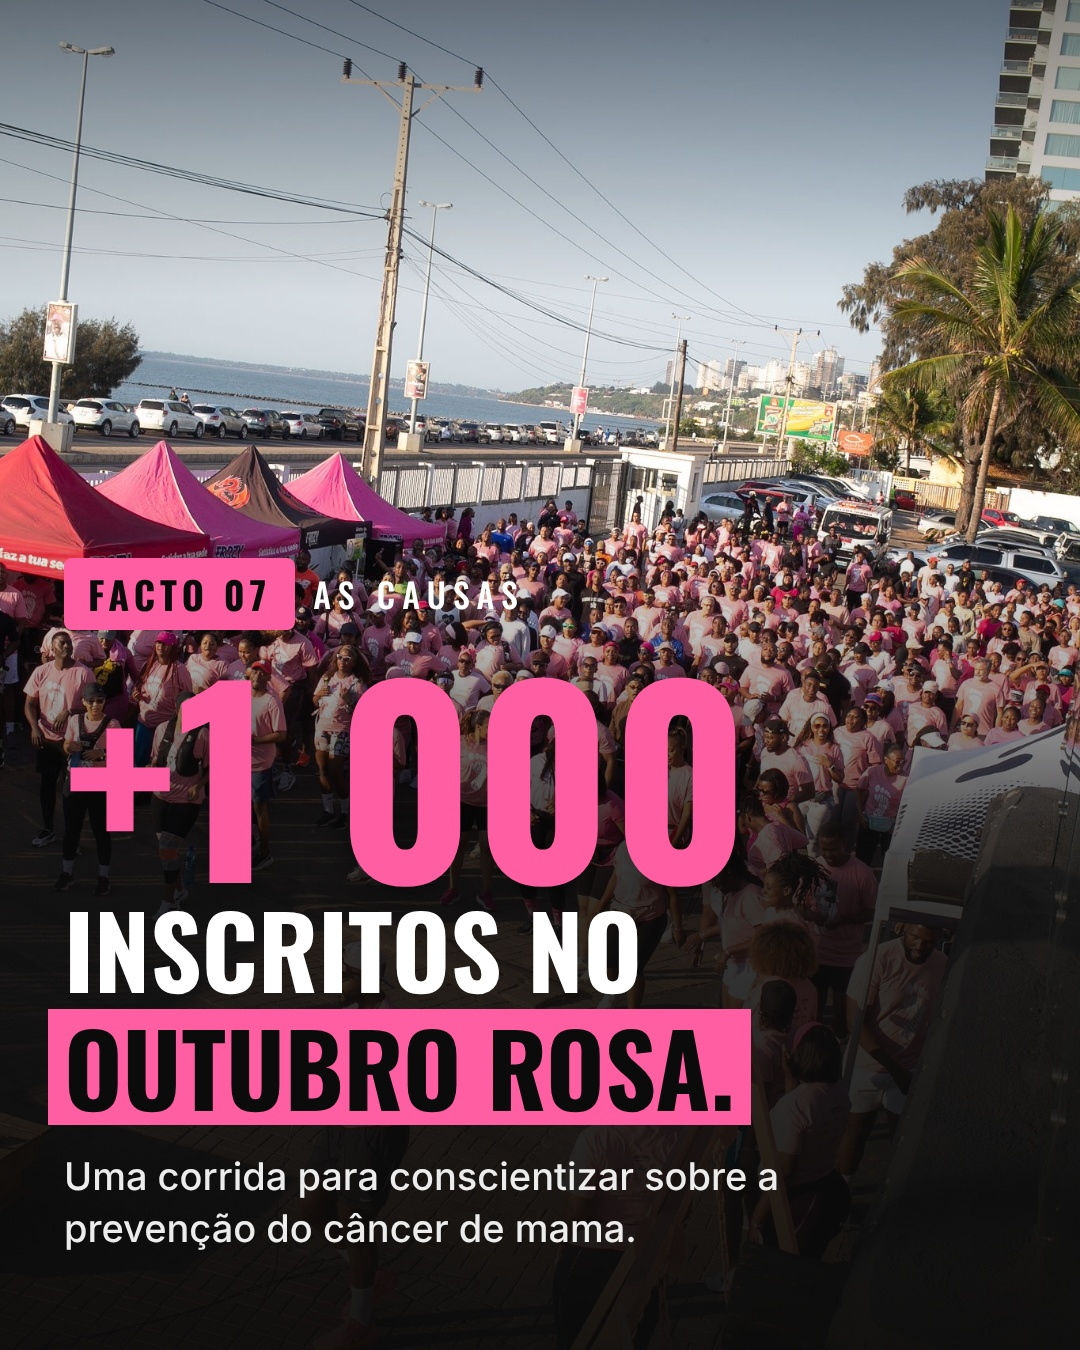
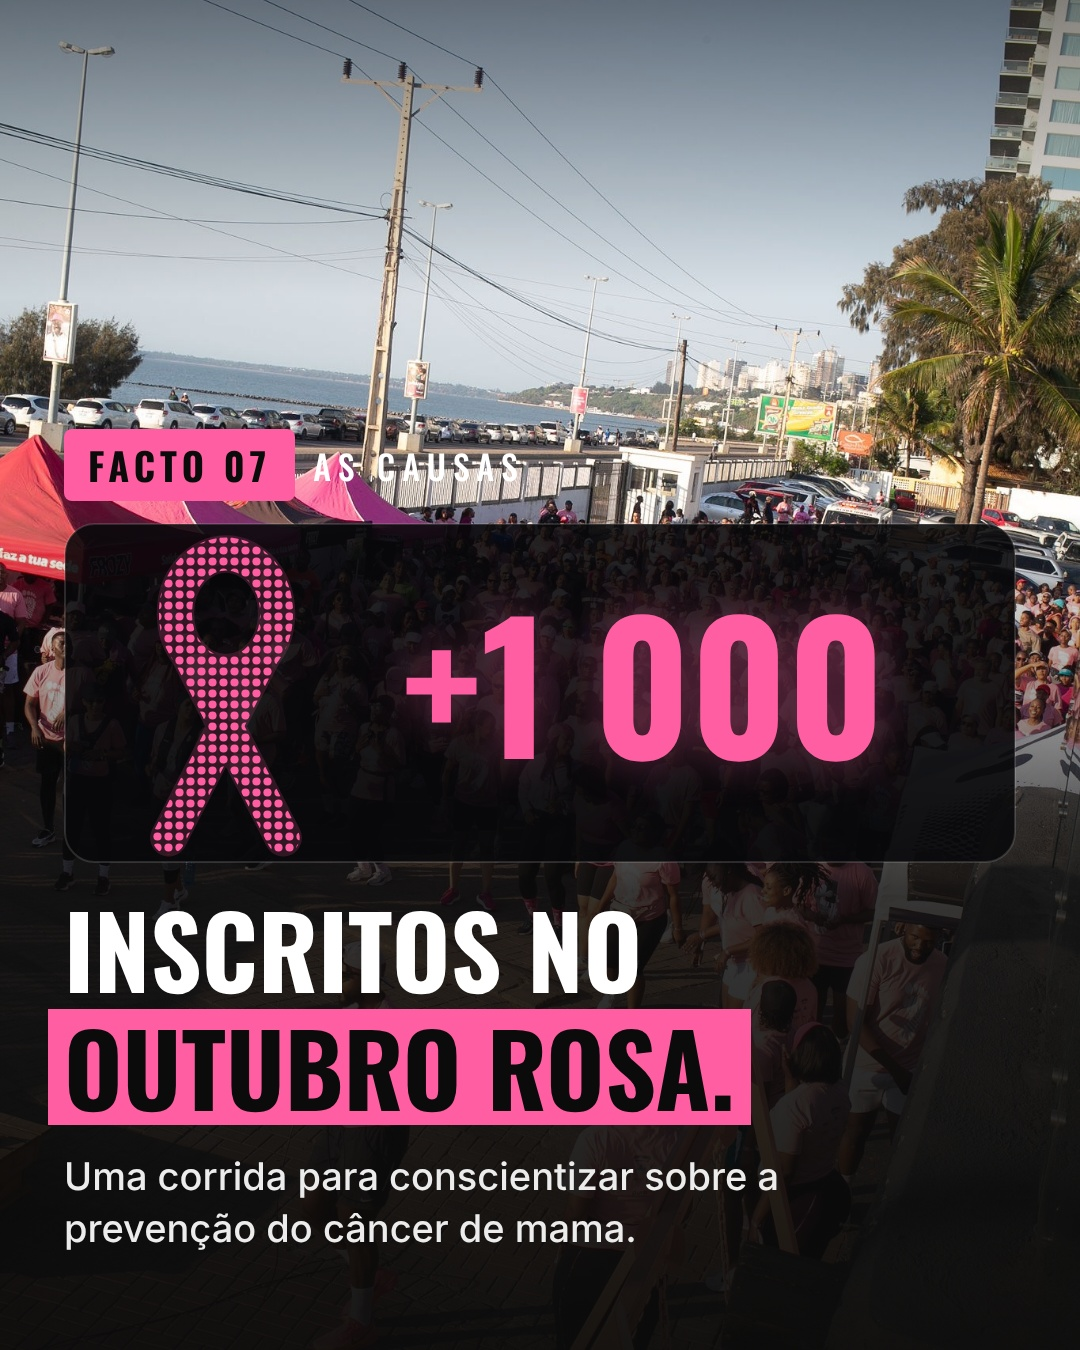
Carrossel: arte no facto 7 (laço rosa de pontos + número)
Claude-Session: https://claude.ai/code/session_01DkaCWGXuFd6yQ1MSFtQr7D

Changed region(s): [[0.0611, 0.3111, 0.9472, 0.6844]]

diff --git a/src/Carousel.tsx b/src/Carousel.tsx
@@ -236,6 +236,36 @@ const LedNumber: React.FC<{text: string; accent: string}> = ({text, accent}) => 
   );
 };
 
+/** Facto 7: o laço rosa da consciencialização, feito de pontos (muitas pessoas), ao lado do número. */
+const RibbonBoard: React.FC<{text: string; accent: string}> = ({text, accent}) => {
+  // laço clássico: argola oca em cima e duas pontas que se cruzam em X
+  const shape = (
+    <>
+      <ellipse cx="100" cy="64" rx="46" ry="54" />
+      <line x1="68" y1="104" x2="152" y2="268" />
+      <line x1="132" y1="104" x2="48" y2="268" />
+    </>
+  );
+  const T = "translate(52 20) scale(1.1)";
+  return (
+    <svg width="952" height="340" viewBox="0 0 952 340" style={{display: "block", marginBottom: 26}}>
+      <defs>
+        <pattern id="rdots" width="11" height="11" patternUnits="userSpaceOnUse">
+          <circle cx="5.5" cy="5.5" r="4.1" fill={accent} />
+        </pattern>
+        <mask id="rmask">
+          <rect width="952" height="340" fill="#000" />
+          <g transform={T} fill="none" stroke="#fff" strokeWidth="30" strokeLinecap="round">{shape}</g>
+        </mask>
+      </defs>
+      <rect x="1" y="1" width="950" height="338" rx="30" fill="rgba(8,8,10,0.88)" stroke="rgba(255,255,255,0.14)" strokeWidth="2" />
+      <g transform={T} fill="none" stroke={accent} strokeWidth="34" strokeLinecap="round" opacity="0.16">{shape}</g>
+      <g mask="url(#rmask)"><rect width="952" height="340" fill="url(#rdots)" /></g>
+      <text x="338" y="236" fontFamily={OSWALD} fontWeight={700} fontSize="176" fill={accent} style={{filter: `drop-shadow(0 0 22px ${accent}66)`}}>{text}</text>
+    </svg>
+  );
+};
+
 const Fact: React.FC<{s: FactSlide}> = ({s}) => {
   const lines = s.title.split("\n");
   const stat = s.stat;
@@ -260,7 +290,8 @@ const Fact: React.FC<{s: FactSlide}> = ({s}) => {
           <div style={{fontFamily: OSWALD, fontWeight: 500, fontSize: 34, letterSpacing: 7, color: "#fff"}}>{s.chapter}</div>
         </div>
         {stat && stat.led && <LedNumber text={stat.text} accent={s.accent} />}
-        {stat && !stat.led && (stat.stamp
+        {stat && stat.ribbon && <RibbonBoard text={stat.text} accent={s.accent} />}
+        {stat && !stat.led && !stat.ribbon && (stat.stamp
           ? <div style={{display: "inline-block", background: s.accent, color: INK, fontFamily: OSWALD, fontWeight: 700, fontSize: 190, lineHeight: 1, padding: "4px 30px 12px", borderRadius: 8, transform: "rotate(-3deg)", marginBottom: 14}}>{stat.text}</div>
           : <div style={{fontFamily: OSWALD, fontWeight: 700, fontSize: 250, lineHeight: 0.95, color: s.accent, textShadow: "0 6px 40px rgba(0,0,0,0.5)"}}>{stat.text}</div>)}
         {lines.map((l, k) => {

diff --git a/src/carousel.ts b/src/carousel.ts
@@ -7,7 +7,7 @@ export const HANDLE = "@runwithbroto_";
 
 export type FactSlide = {
   kind: "fact"; kicker: string; chapter: string; title: string; body: string; photo: string; cut?: string; pos: string;
-  accent: string; night?: boolean; shift?: number; diagram?: "hybrid" | "night"; stat?: {text: string; stamp?: boolean; led?: boolean};
+  accent: string; night?: boolean; shift?: number; diagram?: "hybrid" | "night"; stat?: {text: string; stamp?: boolean; led?: boolean; ribbon?: boolean};
 };
 export type Slide = {kind: "cover"; prompt: string; photo: string; pos: string} | FactSlide | {kind: "cta"};
 
@@ -16,7 +16,7 @@ const BRAND = "#fabb00";
 const LOOK = [
   {pos: "49% 50%", shift: 170}, {pos: "28% 50%"}, {pos: "50% 60%"}, {pos: "50% 0%", shift: 290, diagram: "night"}, {pos: "50% 60%", diagram: "hybrid"}, {pos: "50% 50%"}, {pos: "50% 40%"}, {pos: "50% 0%"},
 ];
-const STAT = [undefined, undefined, undefined, undefined, undefined, {text: "+2500", led: true}, {text: "+1 000"}, {text: "25 JUN", stamp: true}];
+const STAT = [undefined, undefined, undefined, undefined, undefined, {text: "+2500", led: true}, {text: "+1 000", ribbon: true}, {text: "25 JUN", stamp: true}];
 
 export const SLIDES: Slide[] = [
   {kind: "cover", prompt: PROMPT, photo: "photos/cover.jpg", pos: "50% 0%"},
